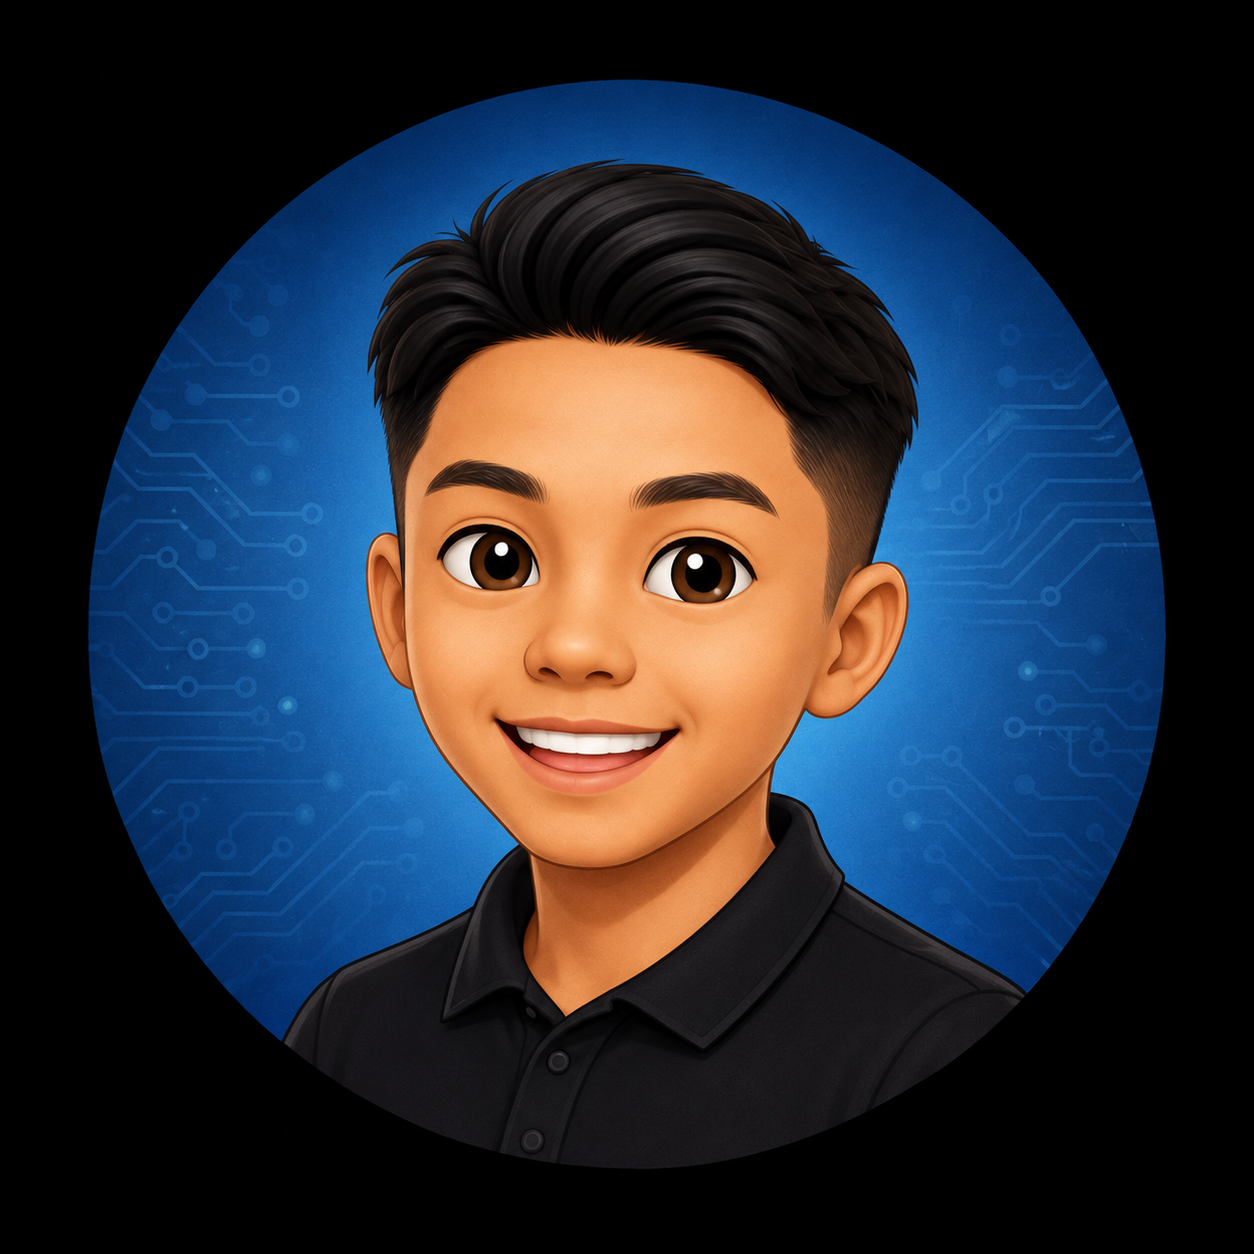
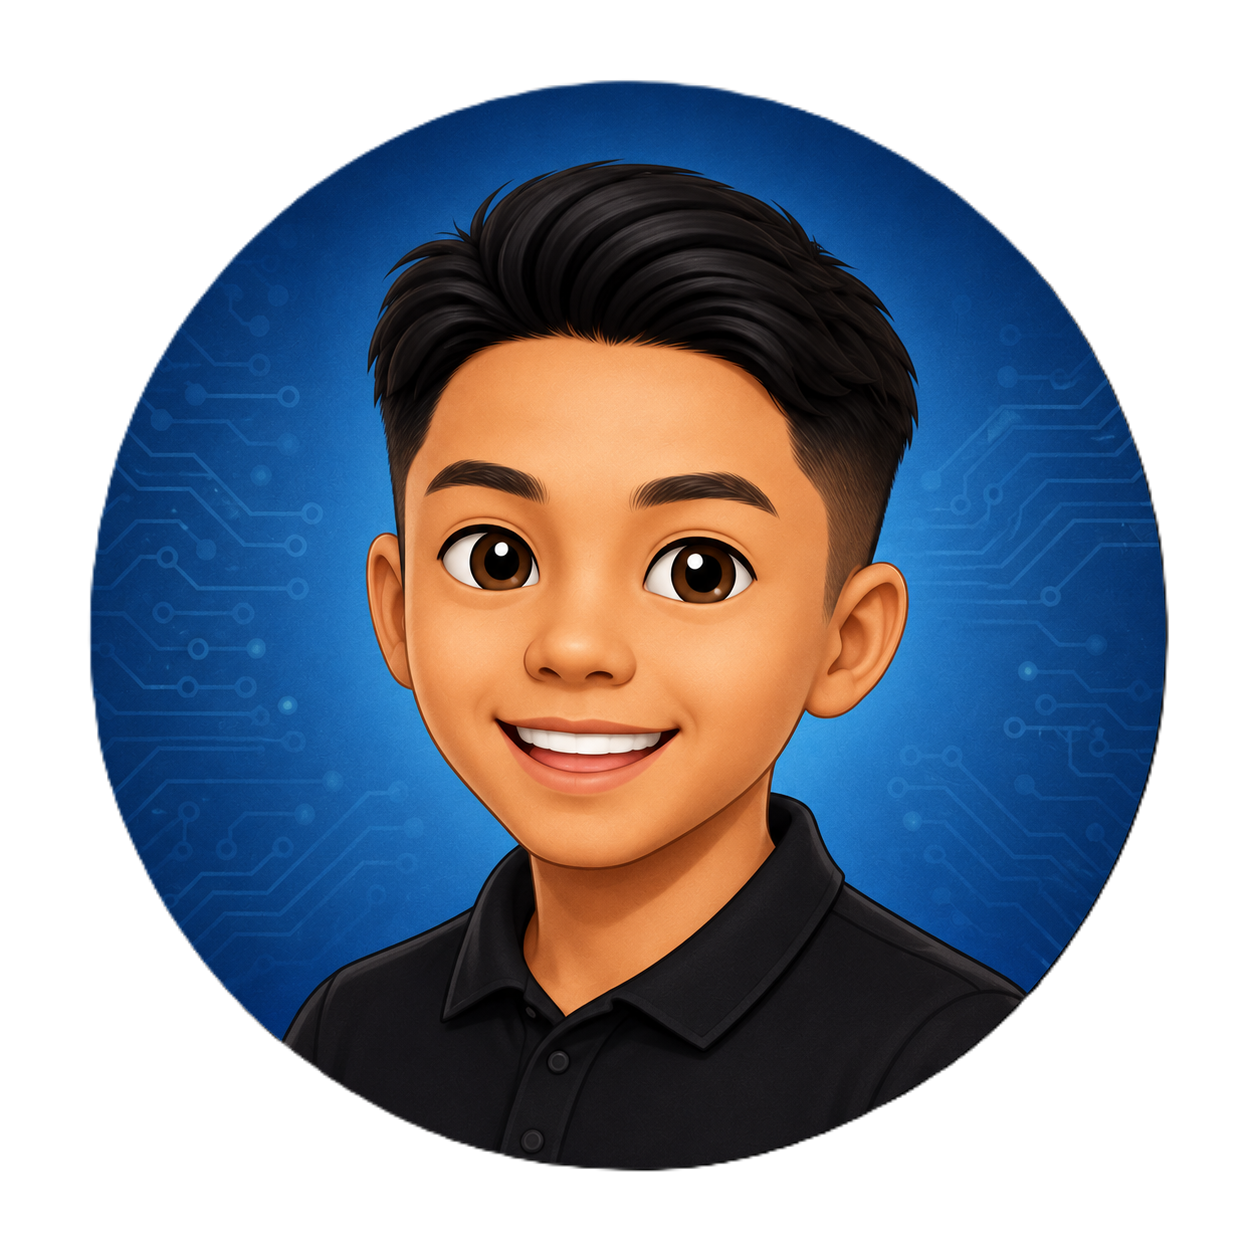
Second updates

diff --git a/index.html b/index.html
@@ -5,12 +5,12 @@
   <meta charset="UTF-8">
   <meta http-equiv="X-UA-Compatible" content="IE=edge">
   <meta name="viewport" content="width=device-width, initial-scale=1.0">
-  <title>vCard - Personal Portfolio</title>
+  <title>Ricky Gumanad | Portfolio</title>
 
   <!--
     - favicon
   -->
-  <link rel="shortcut icon" href="./assets/images/logo.ico" type="image/x-icon">
+  <link rel="shortcut icon" href="./assets/images/myavatar2.png" type="image/x-icon">
 
   <!--
     - custom css link
@@ -74,7 +74,7 @@
             <div class="contact-info">
               <p class="contact-title">Email</p>
 
-              <a href="mailto:richard@example.com" class="contact-link">rgumanad8@gmailcom</a>
+              <a href="mailto:rgumanad8@gmail.com" class="contact-link">rgumanad8@gmailcom</a>
             </div>
 
           </li>
@@ -128,9 +128,9 @@
         <ul class="social-list">
 
           <li class="social-item">
-            <a href="#" class="social-link">
-              <ion-icon name="logo-facebook"></ion-icon>
-            </a>
+          <a href="https://www.facebook.com/rickythepoopoo" class="social-link" target="_blank" rel="noopener noreferrer">
+          <ion-icon name="logo-facebook"></ion-icon>
+         </a>
           </li>
 
           <li class="social-item">
@@ -140,7 +140,7 @@
           </li>
 
           <li class="social-item">
-            <a href="#" class="social-link">
+            <a href="https://www.instagram.com/boydericky" class="social-link" target="_blank" rel="noopener noreferrer">
               <ion-icon name="logo-instagram"></ion-icon>
             </a>
           </li>
@@ -533,36 +533,33 @@
 
             <li class="timeline-item">
 
-              <h4 class="h4 timeline-item-title">University school of the arts</h4>
+              <h4 class="h4 timeline-item-title">Jose Rizal Memorial State University - Dapitan</h4>
 
-              <span>2007 — 2008</span>
+              <span>2020 — 2024</span>
 
               <p class="timeline-text">
-                Nemo enims ipsam voluptatem, blanditiis praesentium voluptum delenit atque corrupti, quos dolores et
-                quas molestias
-                exceptur.
+                Bachelor of Science in Computer Science
               </p>
 
             </li>
 
             <li class="timeline-item">
 
-              <h4 class="h4 timeline-item-title">New york academy of art</h4>
+              <h4 class="h4 timeline-item-title">Potungan National High School</h4>
 
-              <span>2006 — 2007</span>
+              <span>2018 — 2020</span>
 
               <p class="timeline-text">
-                Ratione voluptatem sequi nesciunt, facere quisquams facere menda ossimus, omnis voluptas assumenda est
-                omnis..
+                TVL - Information and Communications Technology
               </p>
 
             </li>
 
-            <li class="timeline-item">
+            <!-- <li class="timeline-item">
 
-              <h4 class="h4 timeline-item-title">High school of art and design</h4>
+              <h4 class="h4 timeline-item-title">Potungan Central School</h4>
 
-              <span>2002 — 2004</span>
+              <span>2010 — 2014</span>
 
               <p class="timeline-text">
                 Duis aute irure dolor in reprehenderit in voluptate, quila voluptas mag odit aut fugit, sed consequuntur
@@ -570,7 +567,7 @@
                 eos.
               </p>
 
-            </li>
+            </li> -->
 
           </ol>
 
@@ -590,43 +587,43 @@
 
             <li class="timeline-item">
 
-              <h4 class="h4 timeline-item-title">Creative director</h4>
+              <h4 class="h4 timeline-item-title">Systems Specialist</h4>
 
-              <span>2015 — Present</span>
-
+              <span>November 2025 — Present</span>
+<!-- 
               <p class="timeline-text">
                 Nemo enim ipsam voluptatem blanditiis praesentium voluptum delenit atque corrupti, quos dolores et qvuas
                 molestias
                 exceptur.
-              </p>
+              </p> -->
 
             </li>
 
             <li class="timeline-item">
 
-              <h4 class="h4 timeline-item-title">Art director</h4>
+              <h4 class="h4 timeline-item-title">Administrative Aide</h4>
 
-              <span>2013 — 2015</span>
+              <span>May 2025 — November 2025</span>
 
-              <p class="timeline-text">
+              <!-- <p class="timeline-text">
                 Nemo enims ipsam voluptatem, blanditiis praesentium voluptum delenit atque corrupti, quos dolores et
                 quas molestias
                 exceptur.
-              </p>
+              </p> -->
 
             </li>
 
             <li class="timeline-item">
 
-              <h4 class="h4 timeline-item-title">Web designer</h4>
+              <h4 class="h4 timeline-item-title">Cashier / Crew</h4>
 
-              <span>2010 — 2013</span>
+              <span>2024 — 2025</span>
 
-              <p class="timeline-text">
+              <!-- <p class="timeline-text">
                 Nemo enims ipsam voluptatem, blanditiis praesentium voluptum delenit atque corrupti, quos dolores et
                 quas molestias
                 exceptur.
-              </p>
+              </p> -->
 
             </li>
 
@@ -643,7 +640,7 @@
             <li class="skills-item">
 
               <div class="title-wrapper">
-                <h5 class="h5">Web design</h5>
+                <h5 class="h5">Technical Skills</h5>
                 <data value="80">80%</data>
               </div>
 
@@ -656,20 +653,7 @@
             <li class="skills-item">
 
               <div class="title-wrapper">
-                <h5 class="h5">Graphic design</h5>
-                <data value="70">70%</data>
-              </div>
-
-              <div class="skill-progress-bg">
-                <div class="skill-progress-fill" style="width: 70%;"></div>
-              </div>
-
-            </li>
-
-            <li class="skills-item">
-
-              <div class="title-wrapper">
-                <h5 class="h5">Branding</h5>
+                <h5 class="h5">Administrative Skills</h5>
                 <data value="90">90%</data>
               </div>
 
@@ -682,12 +666,25 @@
             <li class="skills-item">
 
               <div class="title-wrapper">
-                <h5 class="h5">WordPress</h5>
-                <data value="50">50%</data>
+                <h5 class="h5">Project Management & Implementation</h5>
+                <data value="70">70%</data>
               </div>
 
               <div class="skill-progress-bg">
-                <div class="skill-progress-fill" style="width: 50%;"></div>
+                <div class="skill-progress-fill" style="width: 70%;"></div>
+              </div>
+
+            </li>
+
+            <li class="skills-item">
+
+              <div class="title-wrapper">
+                <h5 class="h5">Organizational Excellence</h5>
+                <data value="90">90%</data>
+              </div>
+
+              <div class="skill-progress-bg">
+                <div class="skill-progress-fill" style="width: 90%;"></div>
               </div>
 
             </li>
@@ -768,7 +765,9 @@
 
           </div>
 
-          <ul class="project-list">
+          <h4 style="color: white;">Coming Soon...</h4>
+
+          <!-- <ul class="project-list">
 
             <li class="project-item  active" data-filter-item data-category="web development">
               <a href="#">
@@ -932,7 +931,7 @@
               </a>
             </li>
 
-          </ul>
+          </ul> -->
 
         </section>
 
@@ -952,7 +951,9 @@
           <h2 class="h2 article-title">Blog</h2>
         </header>
 
-        <section class="blog-posts">
+        <h4 style="color: white;">Coming Soon...</h4>
+
+        <!-- <section class="blog-posts">
 
           <ul class="blog-posts-list">
 
@@ -1126,7 +1127,7 @@
 
           </ul>
 
-        </section>
+        </section> -->
 
       </article>
 
@@ -1169,7 +1170,7 @@
 
             <textarea name="message" class="form-input" placeholder="Your Message" required data-form-input></textarea>
 
-            <button class="form-btn" type="submit" disabled data-form-btn>
+            <button class="form-btn" type="submit"  data-form-btn>
               <ion-icon name="paper-plane"></ion-icon>
               <span>Send Message</span>
             </button>
